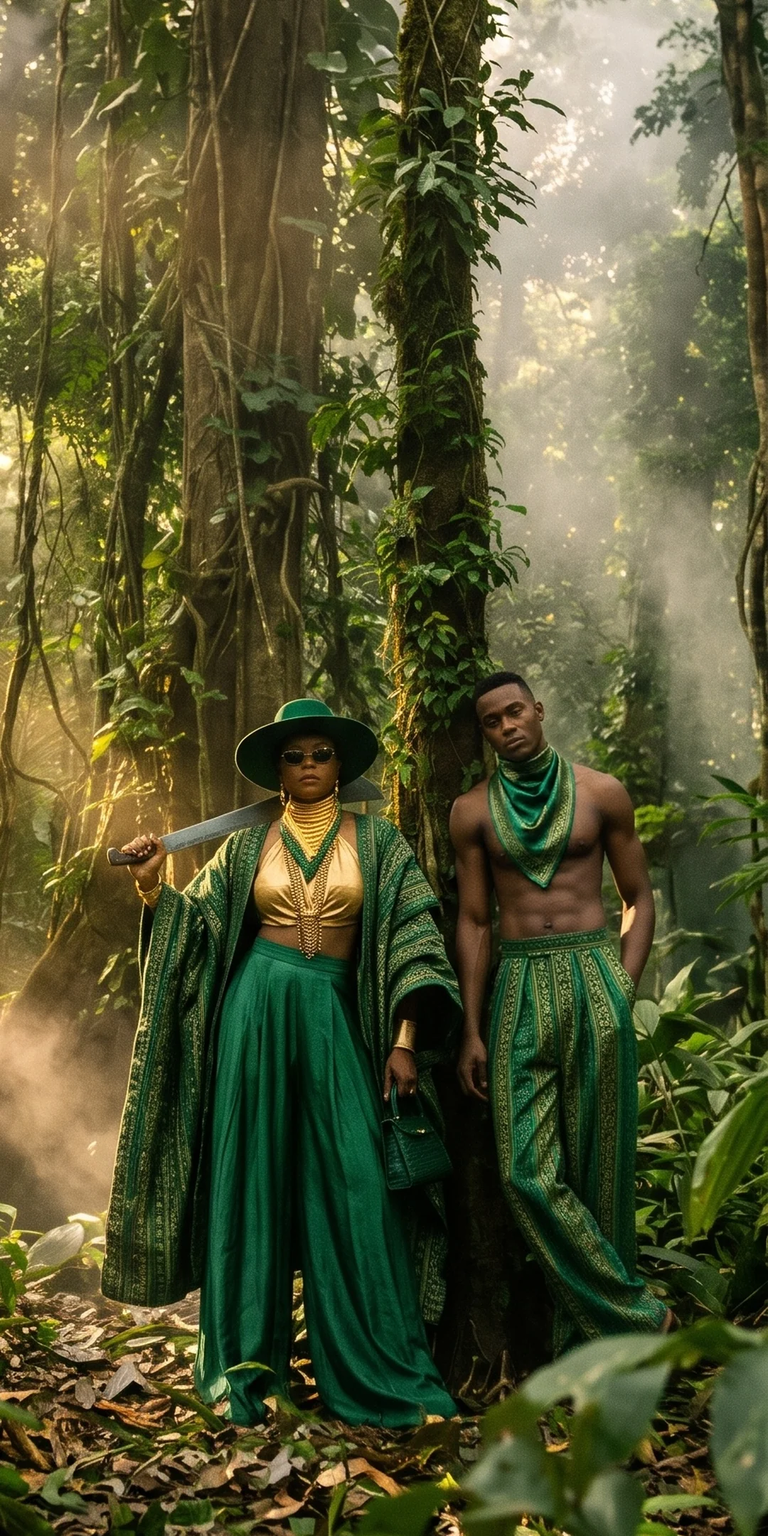
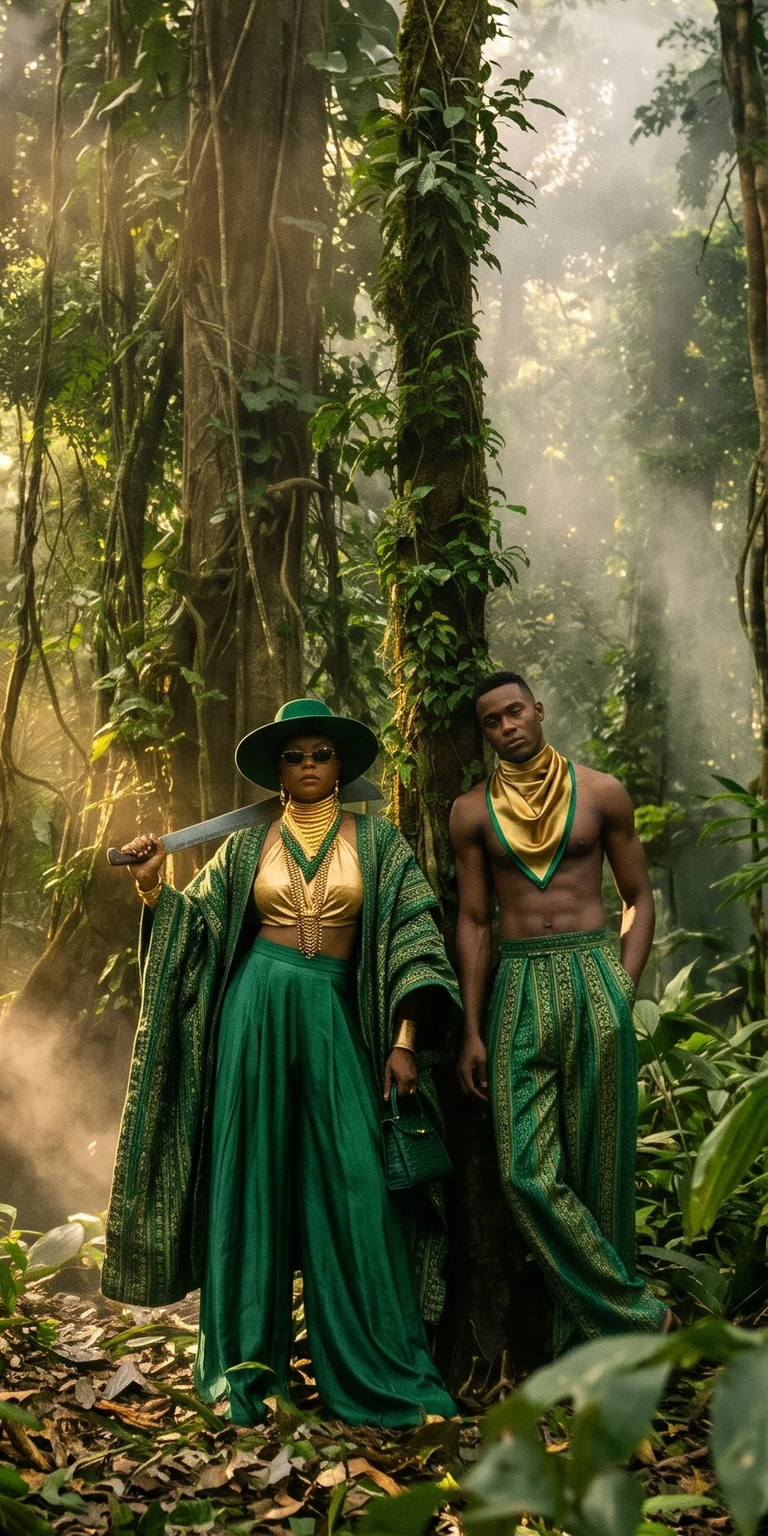
Oud Panga: his scarf is gold silk with a green edge, to echo the woman's neckpiece

Changed region(s): [[0.6111, 0.4653, 0.7639, 0.5894]]

diff --git a/index.html b/index.html
@@ -431,8 +431,8 @@ var BL = [
    nameStyle:{fill:["#F3DC9A","#D9AE52","#9C7225"], op:0.92, glow:"rgba(0,0,0,.55)", blur:18, shade:0.55, shadeTo:0.42, shadeRGB:"6,28,16"},
    // test scene (21 Nov): Congo rainforest couple. Whole photo as one layer for now; the people are not cut out yet, so the
    // front layer is an empty placeholder (their heads sit well below the name). Sources: scene/oud-panga-scene*.jpg
-   layers:{wide:{w:2048,h:1143,sky:"img/scenes/oud-panga-sky.webp?v=scarf2",fg:"img/scenes/empty-fg.webp"},
-           tall:{w:1080,h:2160,sky:"img/scenes/oud-panga-sky-tall.webp?v=scarf2",fg:"img/scenes/empty-fg.webp"}}},
+   layers:{wide:{w:2048,h:1143,sky:"img/scenes/oud-panga-sky.webp?v=scarf3",fg:"img/scenes/empty-fg.webp"},
+           tall:{w:1080,h:2160,sky:"img/scenes/oud-panga-sky-tall.webp?v=scarf3",fg:"img/scenes/empty-fg.webp"}}},
   {n:34,name:"Omeya Dew",top:["Neroli","African marigold","Bergamot"],heart:["Violet","Jasmine","Cyclamen"],base:["Vetiver","Cedar","Musk"],
    desc:"Green neroli and marigold over vetiver and cedar. Daytime and hot weather, unisex. Like dew on leaves in a garden at dawn.",
    col:["#e3b54a","#8fa35a","#5f6b45"], sc:["#f1d58a","#c9a14a","#6b5a2a"], hover:true,
